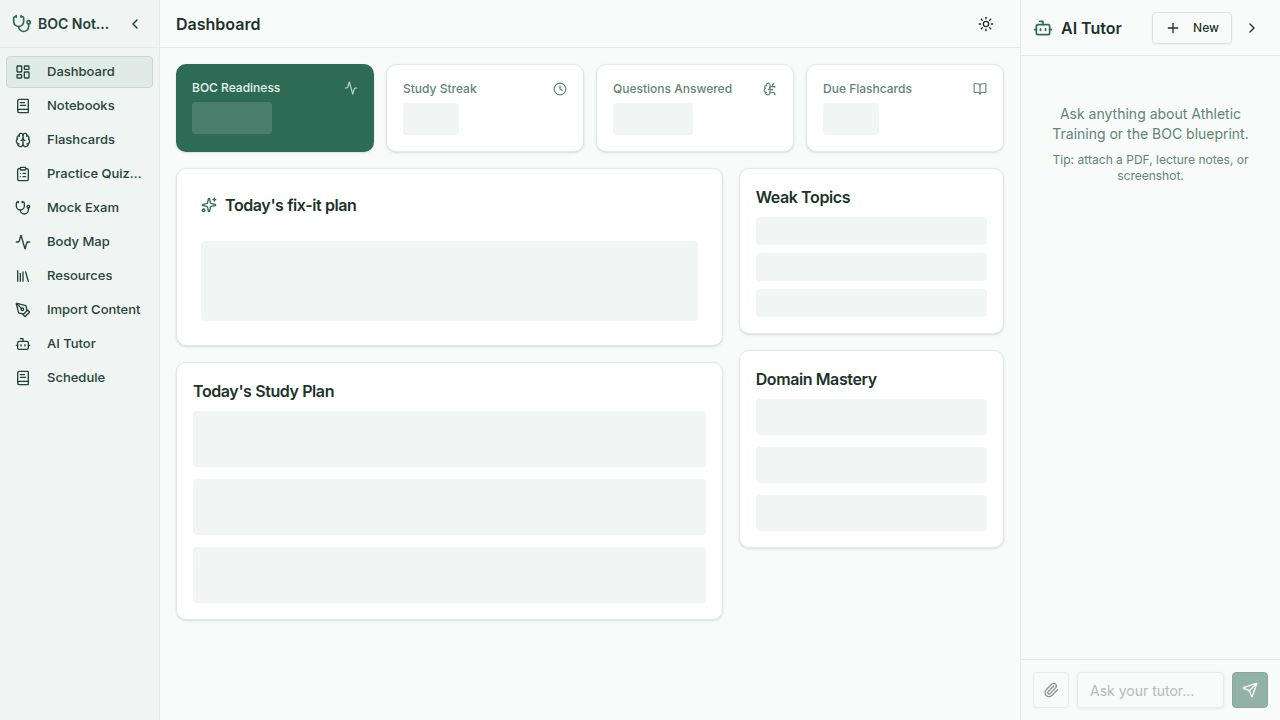
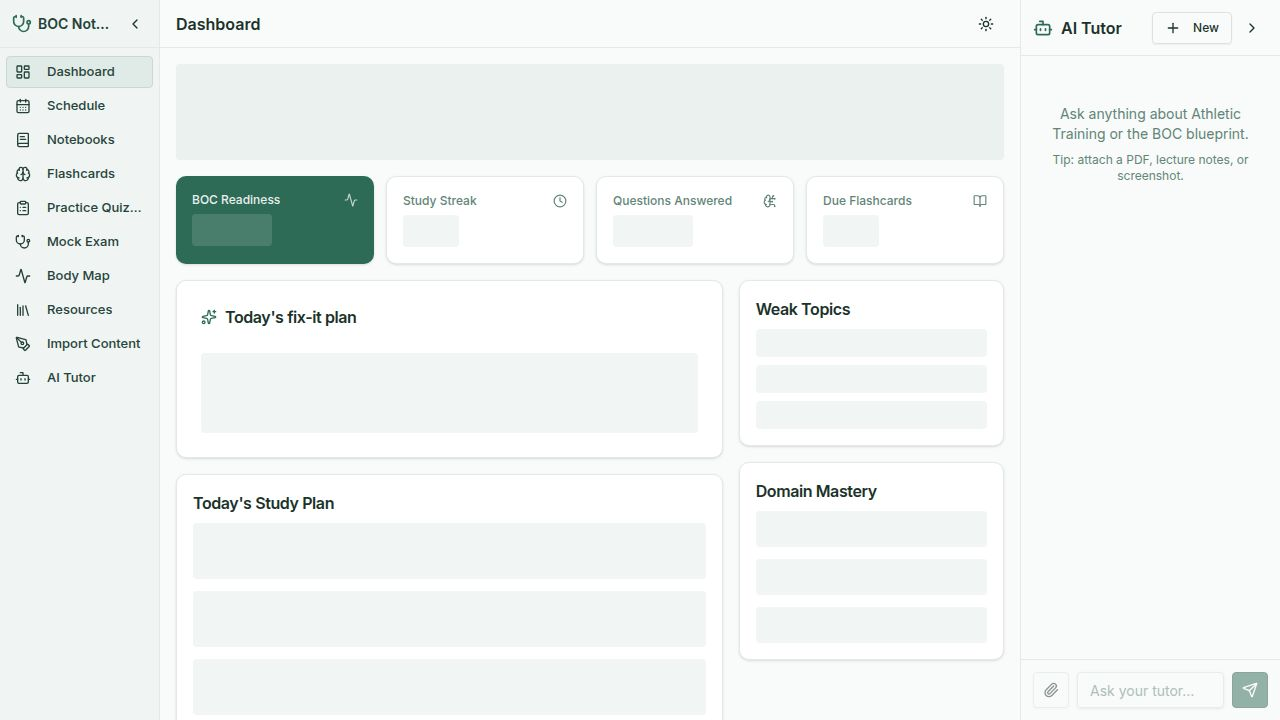
Add confirmation popover before launching weak-topic quiz
Task #28: Clicking a weak-topic row used to immediately fire a 10-question
quiz and navigate away, with no chance to back out or pick a different
length. This change wraps the row's trigger button in a Radix Popover that
asks the learner to confirm before launching.

Changes (artifacts/boc-notebook/src/pages/Dashboard.tsx):
- Imported Popover/PopoverTrigger/PopoverContent and useState.
- Added per-topic state: openTopicId (which row's popover is open) and
  countByTopicId (selected question count, default 10).
- Refactored onQuizTopic to accept a `count` argument instead of the
  hard-coded 10, still using the existing useStartQuiz mutation.
- Wrapped the existing weak-topic trigger button in a Popover. The button
  itself was unchanged visually; clicking it now opens the popover instead
  of starting the quiz directly.
- PopoverContent shows: "Start a {count}-question quiz on {topic.name}?",
  a 5/10/20 segmented selector (role=radiogroup, role=radio, aria-checked),
  and Cancel / Start buttons.
- Keyboard support: Esc closes (Radix default), Tab cycles through the
  count buttons and Cancel/Start, and Enter/Space activates whichever
  button currently has focus (native button behavior). No blanket Enter
  handler is used, so focusing Cancel and pressing Enter cancels rather
  than starting the quiz.
- Confirming closes the popover, calls onQuizTopic with the chosen count,
  and navigates to the runner on success. Cancel just closes the popover.

Test ids added for e2e:
[…]

diff --git a/artifacts/boc-notebook/src/pages/Dashboard.tsx b/artifacts/boc-notebook/src/pages/Dashboard.tsx
@@ -1,4 +1,4 @@
-import { useMemo } from "react";
+import { useMemo, useState } from "react";
 import { useQuery } from "@tanstack/react-query";
 import {
   useGetDashboardSummary,
@@ -19,6 +19,7 @@ import { FixItPlanCard } from "@/components/FixItPlanCard";
 import { MasterySparkline } from "@/components/MasterySparkline";
 import { Link, useLocation } from "wouter";
 import { Button } from "@/components/ui/button";
+import { Popover, PopoverContent, PopoverTrigger } from "@/components/ui/popover";
 import {
   BrainCircuit,
   BookOpen,
@@ -86,9 +87,13 @@ export default function Dashboard() {
   const { toast } = useToast();
   const startQuiz = useStartQuiz();
 
-  const onQuizTopic = (topicId: number, topicName: string) => {
+  const [openTopicId, setOpenTopicId] = useState<number | null>(null);
+  const [countByTopicId, setCountByTopicId] = useState<Record<number, number>>({});
+  const QUIZ_COUNT_OPTIONS = [5, 10, 20] as const;
+
+  const onQuizTopic = (topicId: number, topicName: string, count: number) => {
     startQuiz.mutate(
-      { data: { mode: "region", count: 10, topicIds: [topicId] } },
+      { data: { mode: "region", count, topicIds: [topicId] } },
       {
         onSuccess: (q) => {
           qc.invalidateQueries({ queryKey: getListQuizAttemptsQueryKey() });
@@ -392,41 +397,112 @@ export default function Dashboard() {
                       const isStartingThis =
                         startQuiz.isPending &&
                         startQuiz.variables?.data?.topicIds?.[0] === topic.topicId;
+                      const selectedCount = countByTopicId[topic.topicId] ?? 10;
+                      const isOpen = openTopicId === topic.topicId;
                       return (
                         <li
                           key={topic.topicId}
                           className="bg-secondary text-secondary-foreground rounded-md text-xs min-w-0 relative group focus-within:ring-2 focus-within:ring-ring"
                           data-testid={`weak-topic-${topic.topicId}`}
                         >
-                          <button
-                            type="button"
-                            onClick={() => onQuizTopic(topic.topicId, topic.name)}
-                            disabled={startQuiz.isPending}
-                            title={`Start a focused quiz on ${topic.name}`}
-                            aria-label={`Start a focused quiz on ${topic.name}`}
-                            data-testid={`weak-topic-quiz-${topic.topicId}`}
-                            className="w-full text-left pl-2.5 pr-9 py-1 space-y-1 rounded-md hover:bg-secondary/70 hover-elevate active-elevate-2 disabled:opacity-60 disabled:cursor-not-allowed transition-colors"
+                          <Popover
+                            open={isOpen}
+                            onOpenChange={(o) => setOpenTopicId(o ? topic.topicId : null)}
                           >
-                            <div className="flex items-center gap-2 min-w-0">
-                              <span className="flex-1 min-w-0 truncate font-medium" title={topic.name}>
-                                {topic.name}
-                              </span>
-                              {isStartingThis ? (
-                                <span className="text-[10px] text-muted-foreground shrink-0">
-                                  Starting…
-                                </span>
-                              ) : (
-                                <Play className="h-3 w-3 text-muted-foreground opacity-0 group-hover:opacity-100 group-focus-within:opacity-100 shrink-0 transition-opacity" />
-                              )}
-                            </div>
-                            <div className="flex items-center justify-between gap-2 pr-1 text-muted-foreground">
-                              <MasterySparkline
-                                trend={trend}
-                                testId={`weak-topic-trend-${topic.topicId}`}
-                              />
-                              <span className="text-xs tabular-nums">{masteryPct}% mastery</span>
-                            </div>
-                          </button>
+                            <PopoverTrigger asChild>
+                              <button
+                                type="button"
+                                disabled={startQuiz.isPending}
+                                title={`Start a focused quiz on ${topic.name}`}
+                                aria-label={`Start a focused quiz on ${topic.name}`}
+                                data-testid={`weak-topic-quiz-${topic.topicId}`}
+                                className="w-full text-left pl-2.5 pr-9 py-1 space-y-1 rounded-md hover:bg-secondary/70 hover-elevate active-elevate-2 disabled:opacity-60 disabled:cursor-not-allowed transition-colors"
+                              >
+                                <div className="flex items-center gap-2 min-w-0">
+                                  <span className="flex-1 min-w-0 truncate font-medium" title={topic.name}>
+                                    {topic.name}
+                                  </span>
+                                  {isStartingThis ? (
+                                    <span className="text-[10px] text-muted-foreground shrink-0">
+                                      Starting…
+                                    </span>
+                                  ) : (
+                                    <Play className="h-3 w-3 text-muted-foreground opacity-0 group-hover:opacity-100 group-focus-within:opacity-100 shrink-0 transition-opacity" />
+                                  )}
+                                </div>
+                                <div className="flex items-center justify-between gap-2 pr-1 text-muted-foreground">
+                                  <MasterySparkline
+                                    trend={trend}
+                                    testId={`weak-topic-trend-${topic.topicId}`}
+                                  />
+                                  <span className="text-xs tabular-nums">{masteryPct}% mastery</span>
+                                </div>
+                              </button>
+                            </PopoverTrigger>
+                            <PopoverContent
+                              align="start"
+                              className="w-64 p-3 space-y-3"
+                              data-testid={`weak-topic-confirm-${topic.topicId}`}
+                            >
+                              <div className="space-y-1">
+                                <p className="text-sm font-medium leading-snug">
+                                  Start a {selectedCount}-question quiz on {topic.name}?
+                                </p>
+                                <p className="text-[11px] text-muted-foreground">
+                                  Pick how many questions you want.
+                                </p>
+                              </div>
+                              <div
+                                role="radiogroup"
+                                aria-label="Question count"
+                                className="flex gap-1.5"
+                              >
+                                {QUIZ_COUNT_OPTIONS.map((c) => {
+                                  const active = c === selectedCount;
+                                  return (
+                                    <button
+                                      key={c}
+                                      type="button"
+                                      role="radio"
+                                      aria-checked={active}
+                                      onClick={() =>
+                                        setCountByTopicId((m) => ({ ...m, [topic.topicId]: c }))
+                                      }
+                                      data-testid={`weak-topic-count-${topic.topicId}-${c}`}
+                                      className={`flex-1 px-2 py-1 rounded-md border text-xs font-medium transition-colors ${
+                                        active
+                                          ? "bg-primary text-primary-foreground border-primary"
+                                          : "bg-background hover:bg-accent border-input"
+                                      }`}
+                                    >
+                                      {c}
+                                    </button>
+                                  );
+                                })}
+                              </div>
+                              <div className="flex justify-end gap-2 pt-1">
+                                <Button
+                                  size="sm"
+                                  variant="ghost"
+                                  onClick={() => setOpenTopicId(null)}
+                                  data-testid={`weak-topic-cancel-${topic.topicId}`}
+                                >
+                                  Cancel
+                                </Button>
+                                <Button
+                                  size="sm"
+                                  onClick={() => {
+                                    setOpenTopicId(null);
+                                    onQuizTopic(topic.topicId, topic.name, selectedCount);
+                                  }}
+                                  disabled={startQuiz.isPending}
+                                  data-testid={`weak-topic-start-${topic.topicId}`}
+                                >
+                                  Start
+                                </Button>
+                              </div>
+                            </PopoverContent>
+                          </Popover>
                           <div className="absolute top-1 right-1">
                             <AskAiButton
                               context={`I am weak in the topic: ${topic.name}. Can you explain the core concepts I need to know for the BOC exam?`}